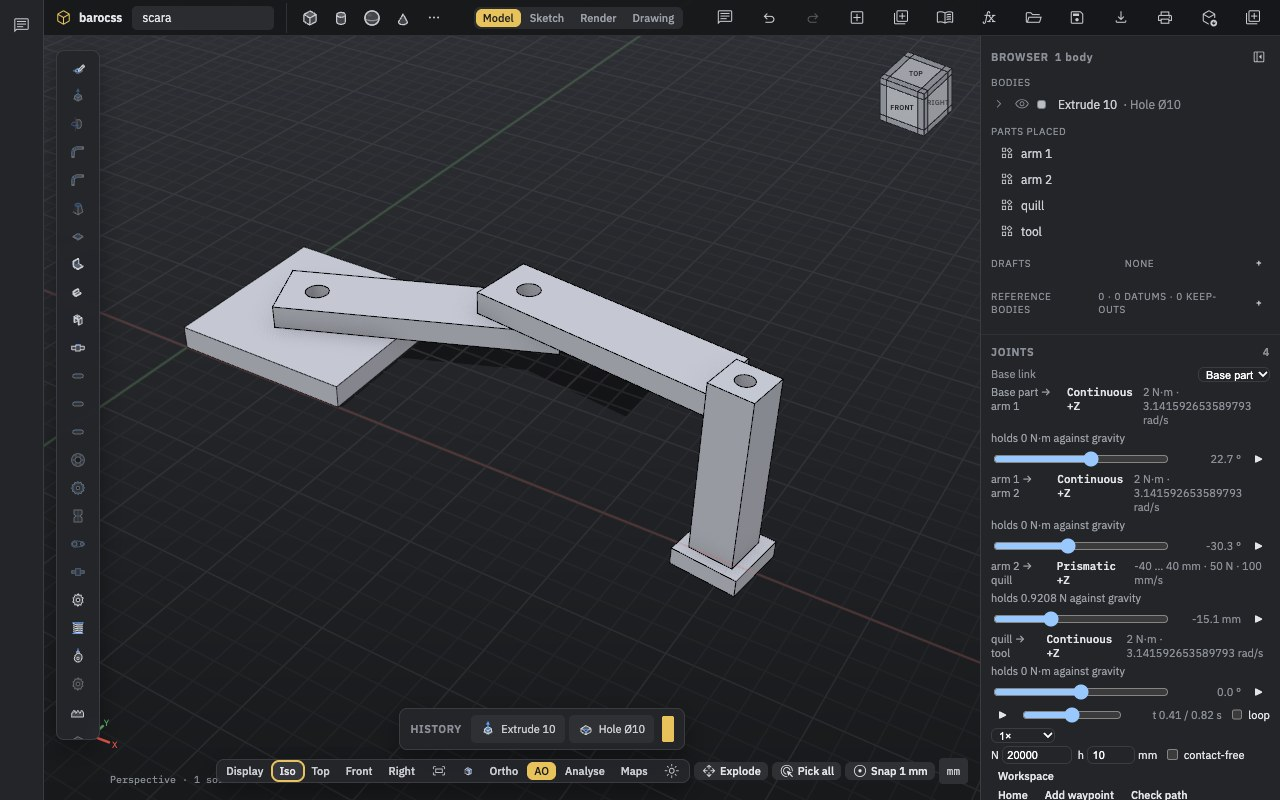
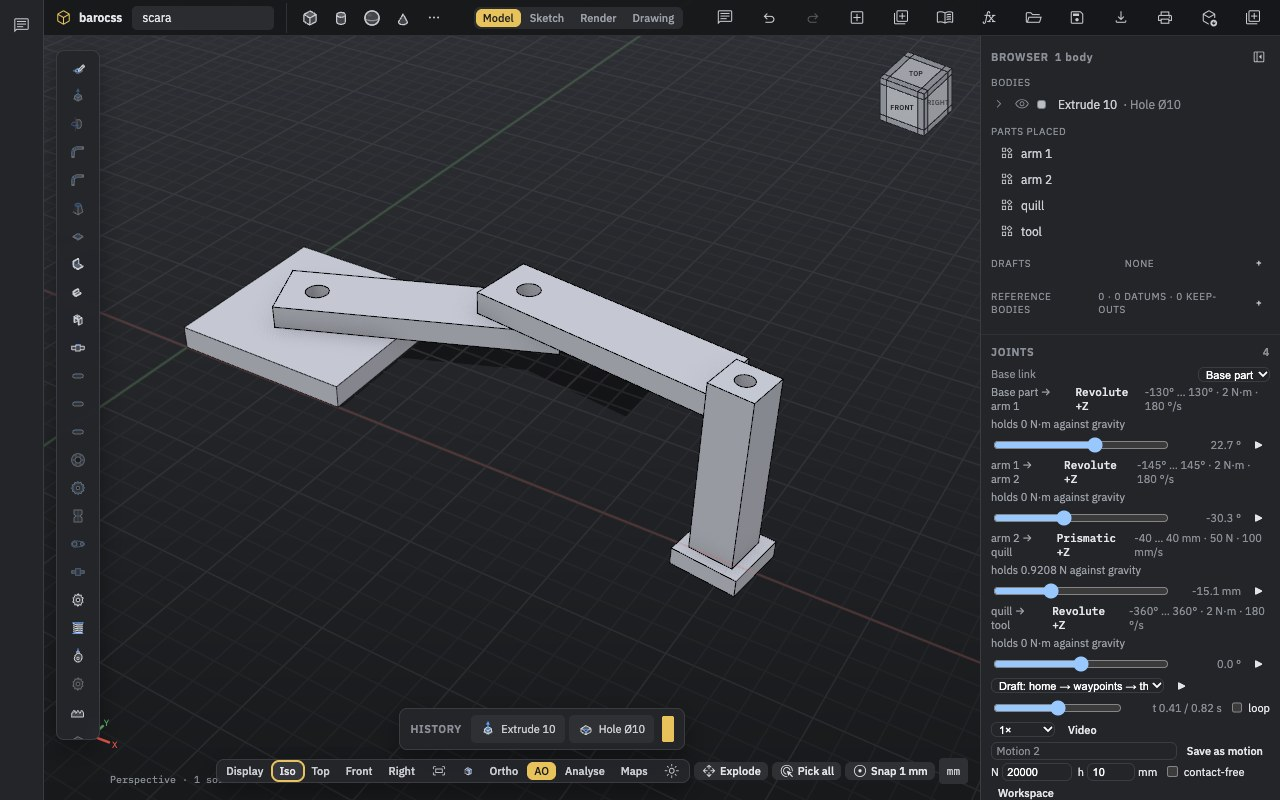
docs(library-docs): robots on O22 and the samples' real limits — scara's turns revolute (fixes integration's 48/49); every demo motion swept (#sweeps; the four-bar aside), designed contact (gear mesh, loop pins) and LOOP_OPEN stated; #motions on default limits (fixed in RS3 (b)); shots retaken (the 
check:docs OK (41 shots, 3323 KB, 612 labels); test:samples 50/50; build OK; capture of 4 robots shots on WebGPU.

Changed region(s): [[0.75, 0.4688, 1.0, 1.0], [0.9062, 0.875, 1.0, 0.9062]]

diff --git a/apps/library-docs/docs/studio/robots.md b/apps/library-docs/docs/studio/robots.md
@@ -33,6 +33,12 @@ write metres and radians.
   shows the gravity torques at the current pose. Right after an edit, these wait until the masses are worked out.
 - **Paths.** **Add waypoint** records poses. **Check path** sweeps the robot along them and reports the first
   collision, with continuous collision between samples.
+  - **Designed contact isn't a collision.** Two meshing gears' teeth are the coupling's to hold, and two links pinned
+    in a planar loop can't cross where they're stacked. Those pairs are skipped, each with why; anything else between
+    the same links is still checked.
+  - **A closed loop isn't closed along a motion yet.** A motion moves only the joints it names, so a looped robot's
+    poses along it are open. The agent's `check_path` and `play_motion` refuse such a robot with `LOOP_OPEN`; the
+    studio's **Check path** and playback don't close the loop either.
 - **Playing a motion.** **Play motion** plays the motion chosen in **Motion choice** in time. Its length shows before
   it plays.
   - The draft is the path above: from home, through the waypoints, to the pose shown. Each joint moves at its velocity
@@ -43,6 +49,8 @@ write metres and radians.
   - The first contact on the way is reported as "Contact *link* – *link* at t … s". From then on the two links are
     marked: outlined on WebGPU, tinted on WebGL2.
   - Playing saves nothing. Moving a slider, **Home**, a change to the waypoints or another choice stops it.
+![The pan-tilt head's saved motion "look around" chosen in Motion choice, paused partway, its camera frame drawn](/shots/studio/robots/saved-motion.jpg)
+
 - **Saving a motion.** With the draft chosen, name it in **Motion name** and **Save as motion** keeps it in the
   document, in degrees and millimetres, and chooses it. A motion of the same name is replaced. Saving is an undo step;
   the pose shown and the play state are never saved.
@@ -123,8 +131,8 @@ so every sample exports, and each carries one demo motion in its robot settings,
 | Sample | What it is | Joints |
 |---|---|---|
 | `arm-2r` | A planar arm | Two turns about parallel vertical axes, 40 mm apart, ±150° |
-| `scara` | A SCARA arm | Turn, turn, a slide of ±40 mm, turn |
-| `arm-6r` | An industrial arm's chain | Six turns about Z, Y, Y, Z, Y and Z: waist, shoulder, elbow and a three-axis wrist |
+| `scara` | A SCARA arm | Turn (±130°), turn (±145°), a slide of ±40 mm, turn (±360°) |
+| `arm-6r` | An industrial arm's chain | Six turns about Z, Y, Y, Z, Y and Z: waist, shoulder, elbow and a three-axis wrist, each with its limits |
 | `gantry-ppp` | A Cartesian gantry | Slides along X (0–200 mm), Y (0–120 mm) and Z (±40 mm) |
 | `pan-tilt` | A camera head | Pan about Z (±170°), tilt about X (±60°), and a `camera` sensor frame |
 | `gripper` | A gear-coupled gripper | The left finger turns ±30°; the right one follows on meshing 20-tooth gears, the other way |
@@ -195,6 +203,11 @@ the tool gives them, with turns in radians.
   `withMotion(name, path)` returns a robot with the path saved.
 
 <<< @/../samples/robots.test.mjs#motions
+
+- **Every demo motion swept.** Each sample's own motion is clear, the four-bar aside; the gripper's meshing fingers
+  are skipped as designed contact.
+
+<<< @/../samples/robots.test.mjs#sweeps
 
 - **The exports**, each with what its reader found and what it had to assume. `check` lists what our own reader found
   wrong when reading the file back, and `notes` what the export assumed, such as aluminium for a body without a
